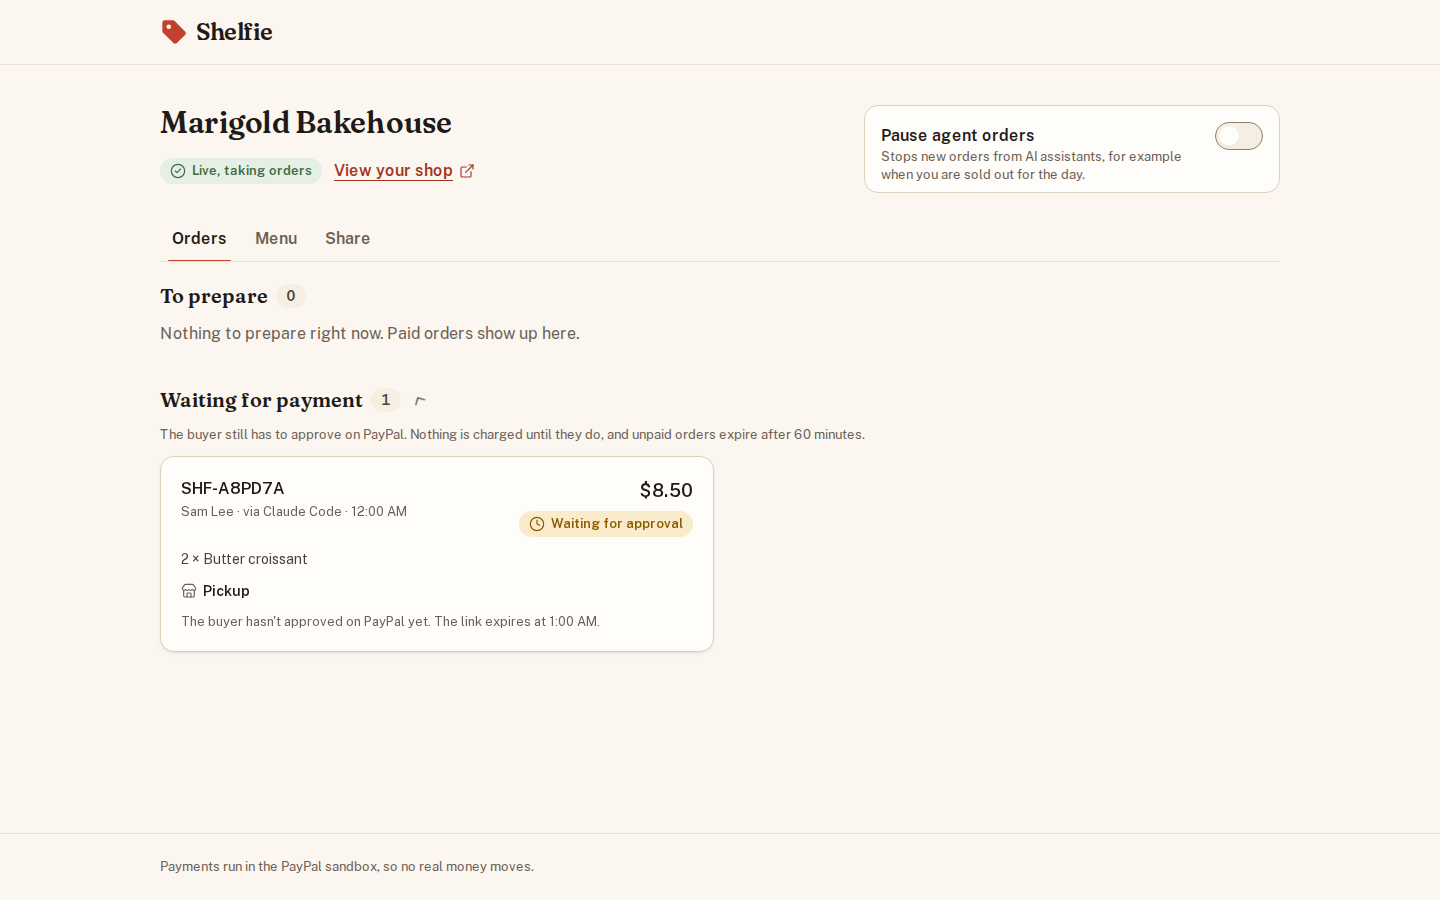
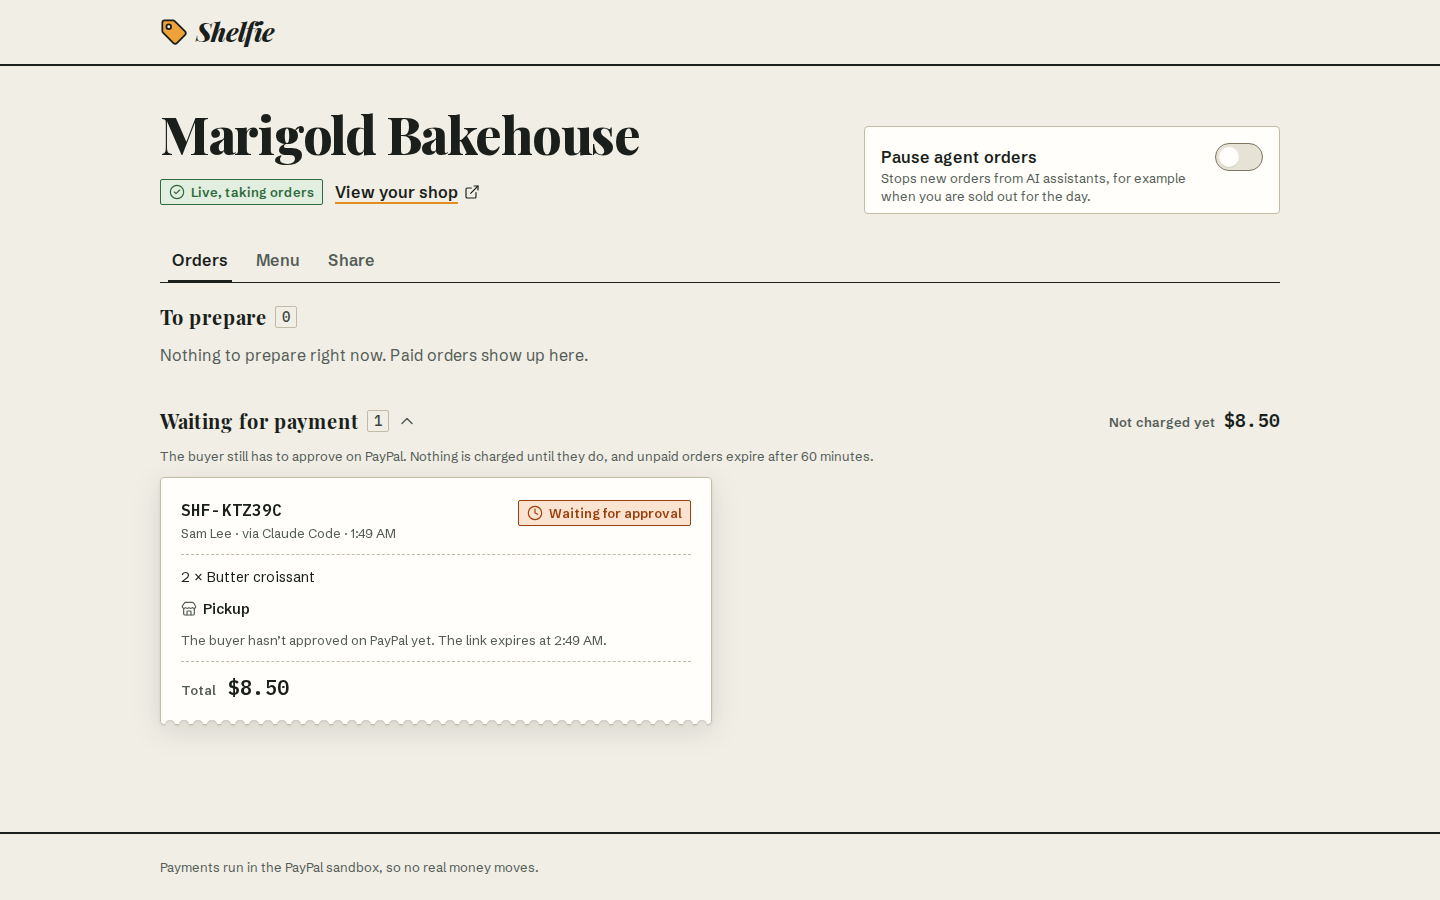
Evidence: re-run the outside MCP client (Claude Code) on current main
Claude Code 2.1.318, headless with --strict-mcp-config and only the demo
shop's agent door, ordered 2 butter croissants: order SHF-KTZ39C, PayPal
order 17R81429KU459414P (PAYER_ACTION_REQUIRED, USD 8.50, custom_id
ord_jhcirc6n64thp7xr). Replaces the transcript and the 1440 px dashboard
and order screenshots with the current design, adds 390 px versions, and
updates the IDs quoted in docs/EVIDENCE.md.

diff --git a/docs/judge/evidence/outside-client-claude-code.md b/docs/judge/evidence/outside-client-claude-code.md
@@ -1,11 +1,11 @@
 # Outside MCP client: Claude Code orders through a shop's agent door
 
-**When:** 2026-11-05 23:59:57 to 2026-11-06 00:00:17 UTC (17.6 s of agent time).
+**When:** 2026-11-06 01:49:21 to 01:49:41 UTC (15.9 s of agent time, from the run's `result` event). This run replaces the first one (2026-11-06 00:00 UTC) so that the screenshots show the current design.
 **What it shows:** a third-party MCP client (the Claude Code CLI, not Shelfie's own buyer console) connects to the demo shop's agent door, browses the menu, and places an order. The door creates a real PayPal Orders v2 order in the sandbox and returns its approval link. The order then shows on the seller's dashboard as placed "via Claude Code".
 
 ## Setup
 
-The app ran as a production build on port 3143 with its own database. The demo shop was seeded into that database, which published 9 items to the PayPal sandbox catalog.
+The app ran as a production build of commit `63c114c` on port 3143, with a new, empty database. The demo shop was seeded into that database, which published 9 items to the PayPal sandbox catalog.
 
 ```bash
 npm run build
@@ -14,7 +14,7 @@ DATABASE_PATH=data/outside/o.db UPLOADS_DIR=data/outside/uploads APP_URL=http://
 curl http://localhost:3143/api/health   # {"ok":true}
 ```
 
-The seed printed `Agent door (MCP): http://localhost:3143/s/marigold-bakehouse/mcp`. The butter croissant's PayPal product is `PROD-3L399198FN6517331`.
+The seed printed `Agent door (MCP): http://localhost:3143/s/marigold-bakehouse/mcp`. The butter croissant's PayPal product is `PROD-2XB249848E1810147`.
 
 MCP config ([claude-code-mcp.json](claude-code-mcp.json)). There's no `?agent=` in the URL: the door names the client from its User-Agent.
 
@@ -36,7 +36,7 @@ Claude Code 2.1.318 ran headless from a new, empty temporary directory, so no pr
 ```bash
 cd "$(mktemp -d /tmp/shelfie-buyer-XXXX)"
 claude -p "I'd like to order from Marigold Bakehouse: two butter croissants for pickup on Saturday. My name is Sam Lee, email sam@example.com. Please place the order (no need to check back with me first) and give me the PayPal link to pay." \
-  --mcp-config /home/aman/paypal-ai/.claude/worktrees/agent-ab527c98c512f9077/docs/judge/evidence/claude-code-mcp.json \
+  --mcp-config /home/aman/paypal-ai/.claude/worktrees/agent-a90b4664299ff38bd/docs/judge/evidence/claude-code-mcp.json \
   --strict-mcp-config \
   --allowedTools "mcp__marigold-bakehouse__*" \
   --output-format stream-json --verbose
@@ -46,11 +46,11 @@ claude -p "I'd like to order from Marigold Bakehouse: two butter croissants for 
 
 The door's `how_ordering_works` asks the agent to read the order back and get a clear yes. The prompt gave that yes up front ("no need to check back with me first"), because a headless run has no second turn.
 
-Session init: MCP server `marigold-bakehouse` status `connected`, with tools `get_shop_info`, `list_products`, `create_order` and `get_order_status`. The run ended `success` after 5 turns with no permission denials.
+Session init: MCP server `marigold-bakehouse` status `connected`, with tools `get_shop_info`, `list_products`, `create_order` and `get_order_status`. These four were the only MCP tools in the session. The user's own Claude Code setup still loaded (its plugins, and one plugin's `SessionStart` hook, which adds an introduction to skills); none of it adds MCP servers. The run ended `success` after 5 turns with no permission denials.
 
 ## Tool calls, in order
 
-Call 1 is Claude Code's built-in `ToolSearch` loading the MCP tools' schemas. Calls 2 to 4 went to the agent door.
+Call 1 is Claude Code's built-in `ToolSearch` loading the MCP tools' schemas. Calls 2 to 4 went to the agent door. Results are shown pretty-printed; the door returns them as one JSON string.
 
 **1. `ToolSearch`** input:
 
@@ -132,26 +132,26 @@ Result:
       "name": "Pastries",
       "items": [
         {
-          "item_id": "itm_7vhif65bamlg",
+          "item_id": "itm_3iglzhu6khxf",
           "name": "Butter croissant",
           "description": null,
           "orderable": true,
           "options": [
             {
-              "option_id": "var_6rfkukyaaw4o",
+              "option_id": "var_fop62qmbjej5",
               "label": null,
               "price": "4.25"
             }
           ]
         },
         {
-          "item_id": "itm_4jz2pvxmyr3x",
+          "item_id": "itm_3kaat5z7xiir",
           "name": "Almond croissant",
           "description": "contains nuts!",
           "orderable": true,
           "options": [
             {
-              "option_id": "var_5lzmtoqqbrlc",
+              "option_id": "var_b4swrhvtzbsn",
               "label": null,
               "price": "5.00"
             }
@@ -170,15 +170,15 @@ Result:
 {
   "items": [
     {
-      "item_id": "itm_7vhif65bamlg",
-      "option_id": "var_6rfkukyaaw4o",
+      "item_id": "itm_3iglzhu6khxf",
+      "option_id": "var_fop62qmbjej5",
       "quantity": 2
     }
   ],
   "fulfillment": "pickup",
   "buyer_name": "Sam Lee",
-  "buyer_note": "Pickup Saturday, Nov 7. Contact email: sam@example.com",
-  "client_request_id": "samlee-2butter-croissant-pickup-2026-11-07"
+  "buyer_note": "Pickup on Saturday. Contact: sam@example.com",
+  "client_request_id": "samlee-2butter-croissant-sat-20261107"
 }
 ```
 
@@ -186,8 +186,8 @@ Result:
 
 ```json
 {
-  "order_ref": "ord_zl6qfjzrixvghorj",
-  "order_number": "SHF-A8PD7A",
+  "order_ref": "ord_jhcirc6n64thp7xr",
+  "order_number": "SHF-KTZ39C",
   "status": "awaiting_approval",
   "fulfillment": "pickup",
   "lines": [
@@ -203,36 +203,34 @@ Result:
   "shipping": "0.00",
   "total": "8.50",
   "currency": "USD",
-  "approval_url": "https://www.sandbox.paypal.com/checkoutnow?token=3RG62077NC717421B",
-  "expires_at": "2026-11-06T01:00:08.015Z",
+  "approval_url": "https://www.sandbox.paypal.com/checkoutnow?token=17R81429KU459414P",
+  "expires_at": "2026-11-06T02:49:33.232Z",
   "next_step": "Give the user approval_url to review and pay on PayPal. Nothing is charged until they approve, and the link works for 60 minutes (see expires_at). Then call get_order_status with this order_ref to confirm payment."
 }
 ```
 
 ## Claude Code's answer
 
-> I placed the order. It hasn't been paid yet, so you'll need to approve it on PayPal before it's final.
+> I placed your order. It isn't paid yet: it goes through once you approve the payment on PayPal.
 >
-> **Order SHF-A8PD7A** (ref `ord_zl6qfjzrixvghorj`)
-> - 2 × Butter croissant at $4.25 each = **$8.50**
-> - Pickup, no shipping fee. **Total: $8.50 USD**
-> - Name: Sam Lee. I put your email and "pickup Saturday, Nov 7" in the note to the seller, because the order form has no email field.
+> **Order SHF-KTZ39C** (ref `ord_jhcirc6n64thp7xr`)
+> - 2 × Butter croissant at $4.25 each = **$8.50 total** (pickup, so no shipping fee)
+> - Pickup: Saturday at 14 Alder St
+> - Name on the order: Sam Lee. The checkout form had no email field, so I put sam@example.com in the note to the seller.
 >
-> **Pay here:** https://www.sandbox.paypal.com/checkoutnow?token=3RG62077NC717421B
+> **Pay here:** https://www.sandbox.paypal.com/checkoutnow?token=17R81429KU459414P
 >
-> - **The link expires 60 minutes after the order was placed.** If it runs out, tell me and I'll get you a new one.
-> - **The bakery's cutoff for weekend pickup is Friday 6pm, which is today,** so please pay soon.
-> - **The link goes to PayPal's sandbox (test) site, not the regular PayPal site.** That may mean the shop is in test mode, and paying might not actually confirm a real order. If that seems wrong, check with the bakery directly.
+> - **The link expires 60 minutes after the order was placed** (02:49 UTC). If it runs out, I can get the order status and send you a working link.
+> - **This is a PayPal sandbox (test) link.** The shop's PayPal seems to be in test mode, so approving it probably won't send real money to the bakery. If you mean to actually pay, you may want to tell Marigold Bakehouse their checkout is in test mode.
+> - **Order by Friday 6pm** for weekend pickup, so approve before then.
 >
-> **Pickup:** Saturday at 14 Alder St.
->
-> Once you've paid, let me know and I'll check that the payment went through.
+> Once you've approved the payment, tell me and I'll check that it went through.
 
 ## Checks after the run
 
-- **Shelfie's database** (`data/outside/o.db`) has order `ord_zl6qfjzrixvghorj`, number `SHF-A8PD7A`, with status `awaiting_approval`, `agent_name` "Claude Code", buyer "Sam Lee", pickup, total 850 cents and PayPal order `3RG62077NC717421B`.
-- **PayPal's own record** (`GET /v2/checkout/orders/3RG62077NC717421B` in the sandbox, via the app's PayPal client) shows status `PAYER_ACTION_REQUIRED` and intent `CAPTURE`. The amount is USD 8.50 (item total 8.50), from 2 × 4.25 of SKU `PROD-3L399198FN6517331`. `custom_id` is `ord_zl6qfjzrixvghorj` and `invoice_id` is `SHF-A8PD7A`. The order was created at 2026-11-06T00:00:10Z.
-- **The approval link** `https://www.sandbox.paypal.com/checkoutnow?token=3RG62077NC717421B` returned HTTP 200.
-- **The seller's dashboard** at 1440 px shows the order under "Waiting for payment" as "Sam Lee · via Claude Code": [outside-client-dashboard-1440.png](outside-client-dashboard-1440.png). The order page says "placed by Claude Code", and its timeline says "Order created by Claude Code": [outside-client-order-1440.png](outside-client-order-1440.png).
+- **Shelfie's database** (`data/outside/o.db`) has order `ord_jhcirc6n64thp7xr`, number `SHF-KTZ39C`, with status `awaiting_approval`, `agent_name` "Claude Code", buyer "Sam Lee", pickup, total 850 cents and PayPal order `17R81429KU459414P`. Its one event is `created` with source `mcp`. It is the only order in that database.
+- **PayPal's own record** (`GET /v2/checkout/orders/17R81429KU459414P` in the sandbox, with a client-credentials token from the app's sandbox keys) returned HTTP 200 with status `PAYER_ACTION_REQUIRED` and intent `CAPTURE`. The amount is USD 8.50 (item total 8.50), from 2 × 4.25 of SKU `PROD-2XB249848E1810147`. `custom_id` is `ord_jhcirc6n64thp7xr` and `invoice_id` is `SHF-KTZ39C`. The order was created at 2026-11-06T01:49:34Z.
+- **The approval link** `https://www.sandbox.paypal.com/checkoutnow?token=17R81429KU459414P` returned HTTP 200.
+- **The seller's dashboard** (signed in by opening the seed's owner link in the same browser) lists the order under "Waiting for payment" as "Sam Lee · via Claude Code · 1:49 AM". That group starts collapsed, so it was opened before the screenshot: [1440 px](outside-client-dashboard-1440.png), [390 px](outside-client-dashboard-390.png). The order page says "Placed by Claude Code, 1:49 AM", shows PayPal order ID `17R81429KU459414P`, and its timeline says "Order created by Claude Code": [1440 px](outside-client-order-1440.png), [390 px](outside-client-order-390.png). Times show in UTC because the browser ran in UTC.
 
 **Not covered by this run:** this order was not paid. The approve-and-capture path for agent-door orders is covered by the capture gate (`e2e/capture.spec.ts`, README "Tests"). The run used `localhost`, not a deployed URL.

diff --git a/docs/EVIDENCE.md b/docs/EVIDENCE.md
@@ -69,6 +69,6 @@ The six runs created 52 real sandbox Catalog products (9+9+10+10+7+7). A seller'
 
 ## Verified: a third-party MCP client ordering (2026-11-06)
 
-The Claude Code CLI (2.1.318), run headless with only the demo shop's agent door as its MCP server (`--mcp-config docs/judge/evidence/claude-code-mcp.json --strict-mcp-config`), ordered from Marigold Bakehouse without Shelfie's own console. It called `get_shop_info`, then `list_products` (query "croissant"), then `create_order` (2 × butter croissant, pickup, buyer Sam Lee). It got back order SHF-A8PD7A and a real PayPal sandbox approval link, `https://www.sandbox.paypal.com/checkoutnow?token=3RG62077NC717421B`.
+The Claude Code CLI (2.1.318), run headless with only the demo shop's agent door as its MCP server (`--mcp-config docs/judge/evidence/claude-code-mcp.json --strict-mcp-config`), ordered from Marigold Bakehouse without Shelfie's own console. It called `get_shop_info`, then `list_products` (query "croissant"), then `create_order` (2 × butter croissant, pickup, buyer Sam Lee). It got back order SHF-KTZ39C and a real PayPal sandbox approval link, `https://www.sandbox.paypal.com/checkoutnow?token=17R81429KU459414P`.
 
-PayPal's own record of order `3RG62077NC717421B` shows `PAYER_ACTION_REQUIRED`, USD 8.50 and `custom_id` `ord_zl6qfjzrixvghorj`. The seller's dashboard shows the order "via Claude Code". The run used a production build on `localhost`. The order was not paid; the capture gate covers payment. Transcript, command and screenshots: [docs/judge/evidence/outside-client-claude-code.md](judge/evidence/outside-client-claude-code.md).
+PayPal's own record of order `17R81429KU459414P` shows `PAYER_ACTION_REQUIRED`, USD 8.50 and `custom_id` `ord_jhcirc6n64thp7xr`. The seller's dashboard shows the order "via Claude Code". The run (re-run at 01:49 UTC so the screenshots show the current design) used a production build on `localhost`. The order was not paid; the capture gate covers payment. Transcript, command and screenshots: [docs/judge/evidence/outside-client-claude-code.md](judge/evidence/outside-client-claude-code.md).
